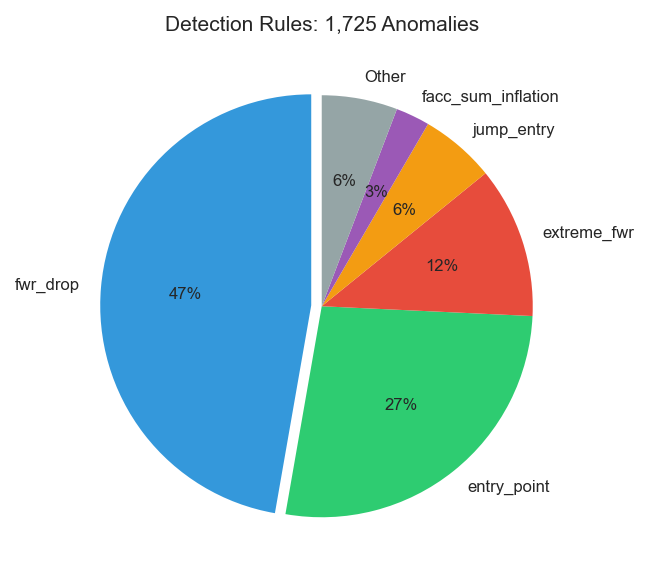
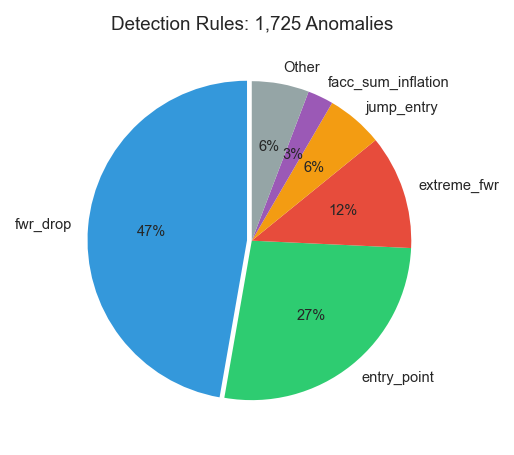
Shrink pie chart (3.5x3.5), ensure centered

diff --git a/scripts/generate_facc_figures.py b/scripts/generate_facc_figures.py
@@ -162,10 +162,10 @@ def fig4_detection_rules():
         'Other': 100
     }
 
-    fig, ax = plt.subplots(figsize=(5, 4))
+    fig, ax = plt.subplots(figsize=(3.5, 3.5))
 
     colors = ['#3498db', '#2ecc71', '#e74c3c', '#f39c12', '#9b59b6', '#95a5a6']
-    explode = (0.05, 0, 0, 0, 0, 0)
+    explode = (0.03, 0, 0, 0, 0, 0)
 
     wedges, texts, autotexts = ax.pie(
         rules.values(),
@@ -174,10 +174,11 @@ def fig4_detection_rules():
         colors=colors,
         explode=explode,
         startangle=90,
-        textprops={'fontsize': 8}
+        textprops={'fontsize': 7}
     )
 
-    ax.set_title('Detection Rules: 1,725 Anomalies', fontsize=10)
+    ax.set_title('Detection Rules: 1,725 Anomalies', fontsize=9)
+    ax.set_aspect('equal')
 
     plt.tight_layout()
     plt.savefig(OUTPUT_DIR / 'fig4_detection_rules.png', bbox_inches='tight')
